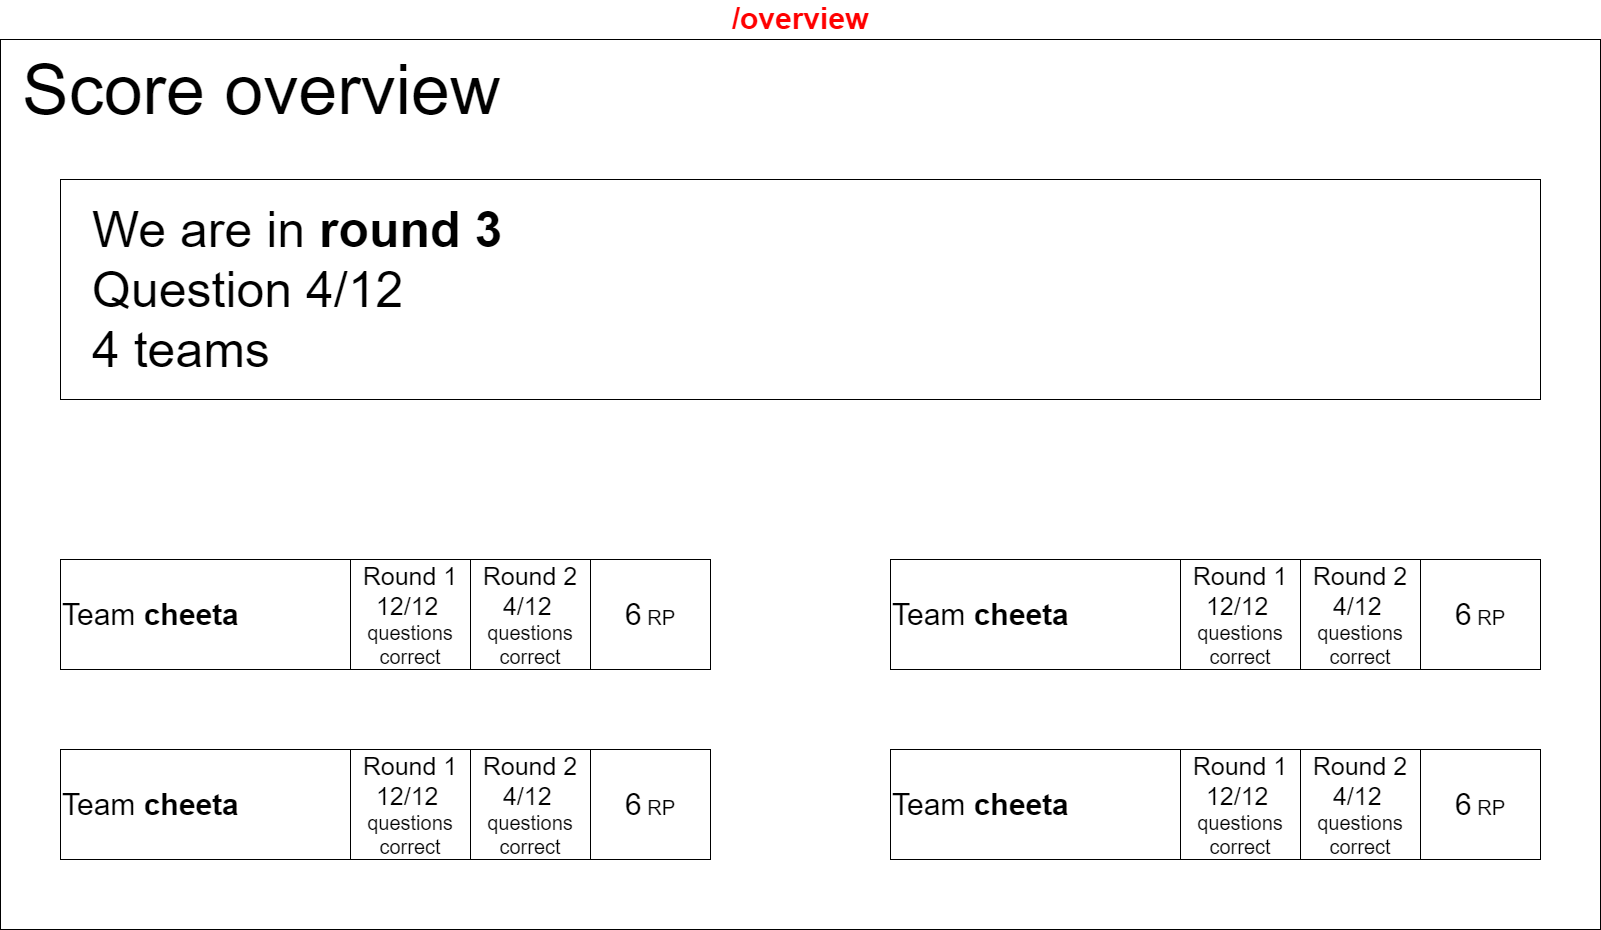
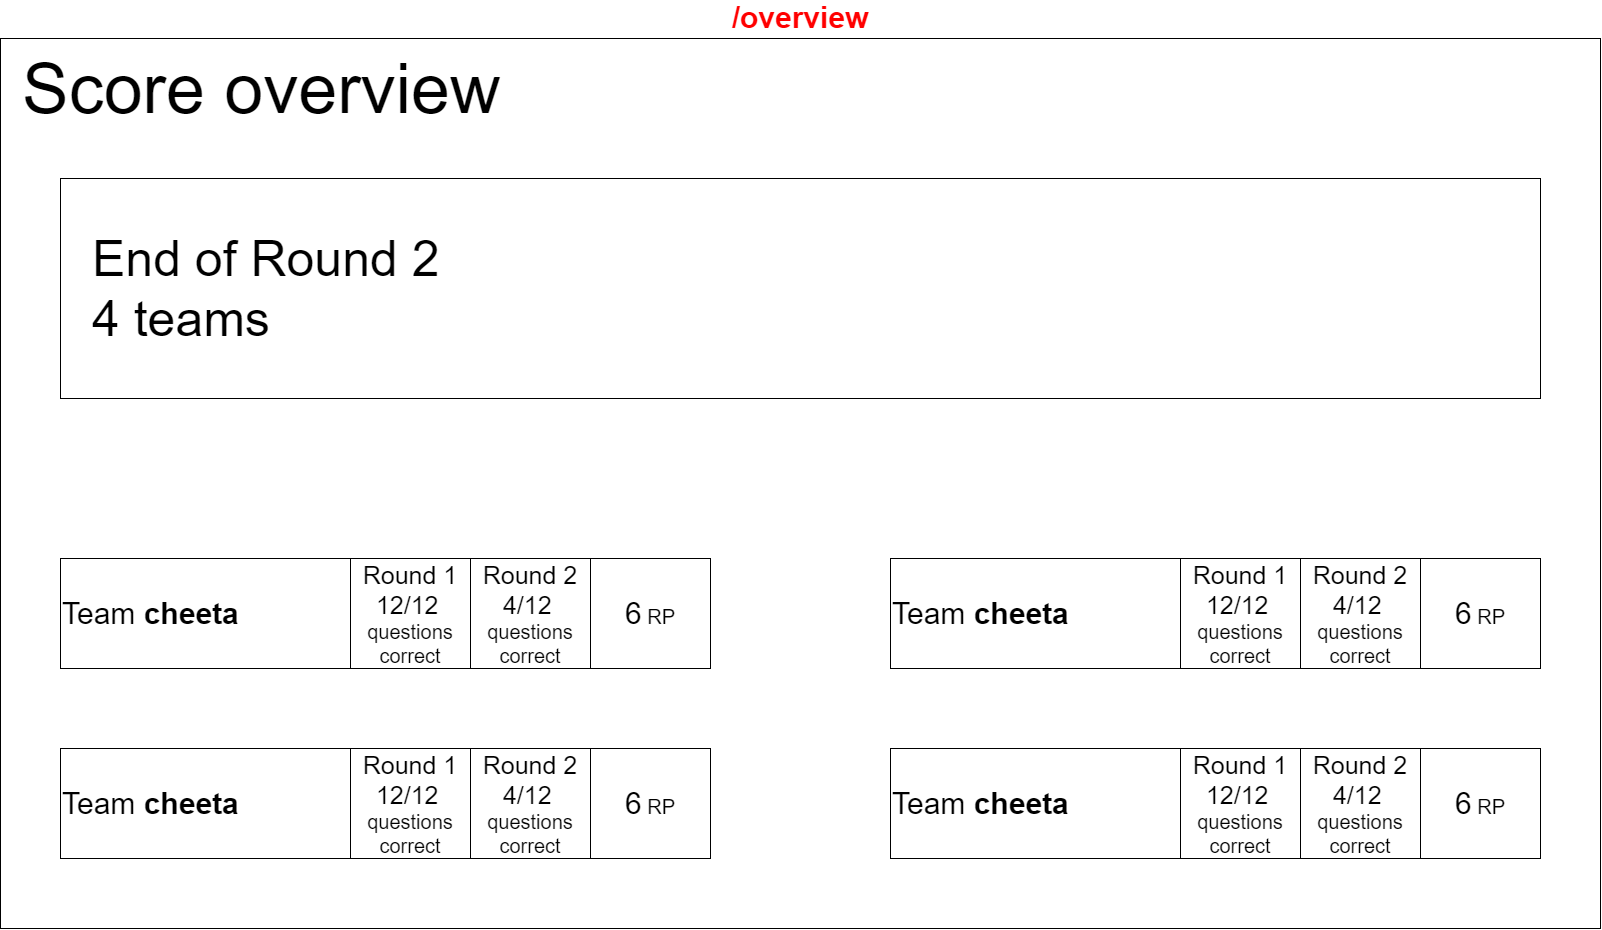
Update wireframes with @ikbendesjaak

diff --git a/docs/wireframes.md b/docs/wireframes.md
@@ -4,13 +4,13 @@ These wireframes show, in general, how a page will look.
 Most pages have a navbar with a link to the homepage, a help page, an idication who is logged in and an sign in/out button.
 
 ## Quizmaster app
- ### Answer page
-On this page the quiz master, when logged in, can see the correct answer of the current question. They can also see the answers submitted by the teams and approve or disapprove them. When all answers have been (dis)approved the quiz master can submit the answers so that the teams can see them.
- ![quizmaster-answers](wireframes/quizmaster-answers.png)
-
  ### New quiz page
  When the quiz master is logged in they can start a new quiz, generating a new room.
  ![quizmaster-new-quiz](wireframes/quizmaster-new-quiz.png)
+
+ ### Teams applications page
+ After creating a new quiz, the quiz master can see the room code and teams that have applied. The quiz master can approve or disapprove teams before starting a new round.
+ ![quizmaster-teams-applications](wireframes/quizmaster-teams-applications.png)
 
  ### New round page
  On this page the quiz master can start a new round by choosing 3 categories on this page to be used for questions.
@@ -20,32 +20,52 @@ On this page the quiz master, when logged in, can see the correct answer of the 
  This page shows 3 questions from the 3 chosen categories. The quiz master can choose whatever question he wants or generate 3 other questions.
  ![quizmaster-questions](wireframes/quizmaster-questions.png)
 
- ### Sign in page
- On this page the quizmaster can login if they already have an account.
- ![quizmaster-sign-in](wireframes/quizmaster-sign-in.png)
+ ### Answer page
+On this page the quiz master, when logged in, can see the correct answer of the current question. They can also see the answers submitted by the teams and approve or disapprove them. When all answers have been (dis)approved the quiz master can submit the answers so that the teams can see them.
+ ![quizmaster-answers](wireframes/quizmaster-answers.png)
 
- ### Sign up page
- On this page the quizmaster can sign up if they don't have an account yet.
- ![quizmaster-sign-up](wireframes/quizmaster-signup.png)
-
- ### Teams applications page
- After creating a new quiz, the quiz master can see the room code and teams that have applied. The quiz master can approve or disapprove teams before starting a new round.
- ![quizmaster-teams-applications](wireframes/quizmaster-teams-applications.png)
+ ### New round/ end quiz page
+ On this page the quiz master can start a new round or end the quiz.
+ ![quizmaster-end](wireframes/quizmaster-end-round.png)
 
 ## Scoreboard app
+ ### Sign in page
+This page allows the scoreboard to join a room
+![scoreboard-signin](wireframes/scoreboard-signin.png)
+
+### Waiting for quizmaster page
+This page shows when waiting for teams to be approved, questions to be started, etc.
+![scoreboard-wait](wireframes/scoreboard-wait.png)
+
+ ### Question page
+This page shows the current question and which of the teams have already answered.
+ ![scoreboard-questions](wireframes/scoreboard-question.png)
+
  ### Answers page
  This page of the scoreboard shows after all teams have answered a question and the quiz master has (dis)approved all questions. It shows the question, the category, what the teams answers were and if they were correct.
  ![scoreboard-answers](wireframes/scoreboard-answers.png)
 
- ### Overview page
-This page shows the current question and which of the teams have already answered.
- ![scoreboard-overview](wireframes/scoreboard-question.png)
+ ### End round page
+ An overview of the scores for at the end of a round.
+ ![scoreboard-overview](wireframes/scoreboard-overview.png)
+
+ ### End quiz page
+ Page showing the winner of the entire quiz.
+ ![scoreboard-end](wireframes/scoreboard-end.png)
 
 ## Teams app
+ ### Sign up
+ On this page users can sign up as a team for a quiz if they have a room code.
+ ![team-sign-up](wireframes/team-sign-up.png)
+
  ### Questions page
  On this page the team can see the question and submit an answer.
  ![team-questions](wireframes/team-questions.png)
 
- ### Sign up
- On this page users can sign up as a team for a quiz if they have a room code.
- ![team-sign-up](wireframes/team-sign-up.png)
+ ### Waiting for quizmaster
+ The page which will show when waiting for the quiz master to approve the teams or start the next question/round
+ ![team-waiting](wireframes/team-waiting.png)
+
+ ### End quiz
+ This page will show at the end of the quiz allowing teams to see the place they ended up in.
+ ![team-end](wireframes/team-end.png)
